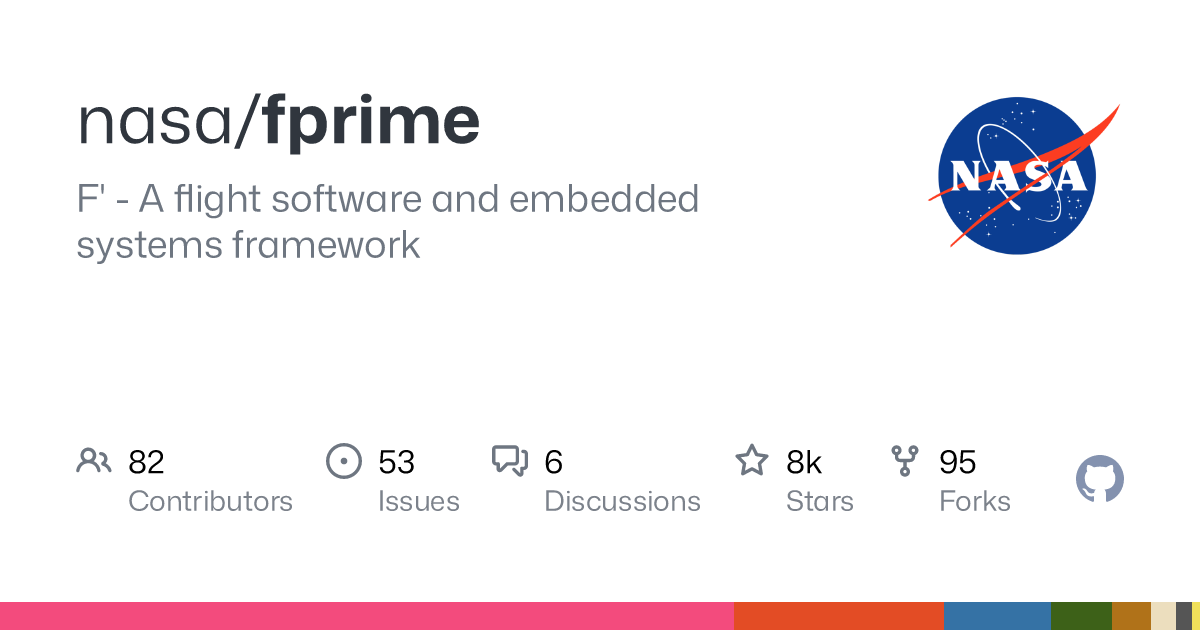
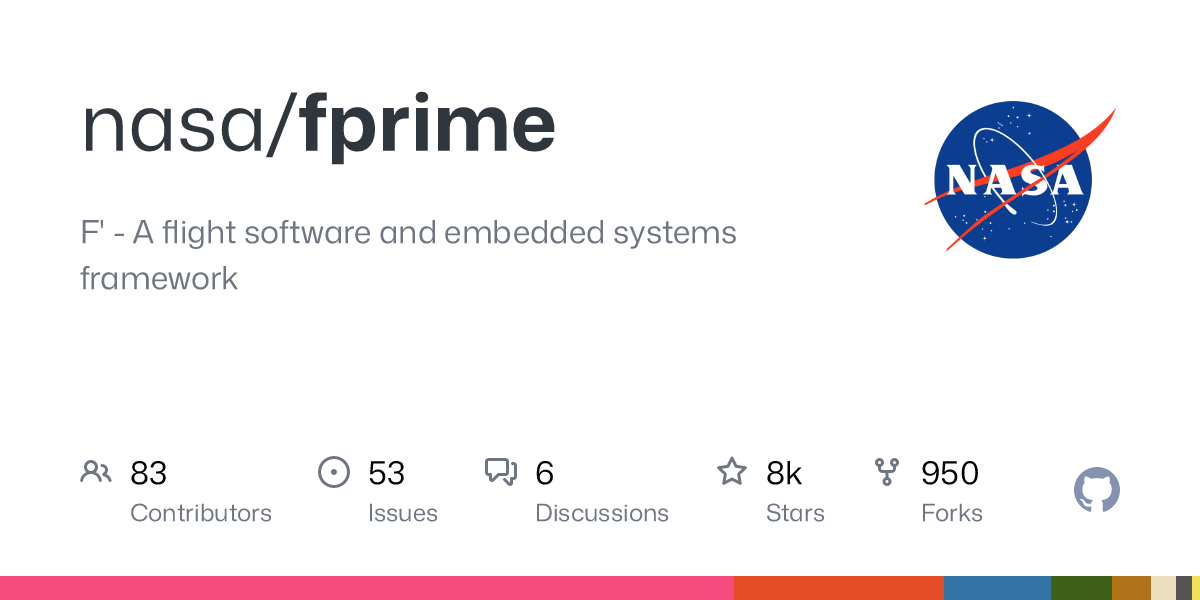
update test card

diff --git a/decal-core/src/main.rs b/decal-core/src/main.rs
@@ -10,8 +10,8 @@ fn heading(owner: &str, repo: &str) -> Decal {
                 (repo, { weight: FontWeight::Bold })
              })
         }
-            .font_size(68)
-            .line_height(82)
+            .font_size(80)
+            .line_height(80)
     }
 }
 
@@ -19,26 +19,26 @@ fn stat(value: &str, label: &str, icon: &str) -> Decal {
     fragment! {
         Column {
             Row {
-                Image(ImageSource::svg(format!(r##"<svg width="36" height="36" viewBox="0 0 16 16" fill="#6e7681">{icon}</svg>"##)), 36.0, 36.0)
+                Image(ImageSource::svg(format!(r##"<svg width="32" height="32" viewBox="0 0 16 16" fill="#6e7681">{icon}</svg>"##)), 32.0, 32.0)
                 Text(value).color(rgb(0x0))
             }
                 .font_size(32)
-                .line_height(38)
-                .align_items(AlignItems::Center)
-                .gap(px(16))
-            Text(label)
-                .color(rgb(0x7c828b))
-                .font_size(28)
                 .line_height(32)
-                .margin_left(px(52))
+                .align_items(AlignItems::Center)
+                .gap(px(18))
+            Text(label)
+                .color(rgb(0x6e7681))
+                .font_size(24)
+                .line_height(24)
+                .margin_left(px(50))
         }
-            .gap(px(4))
+            .gap(px(12))
     }
 }
 
 fn main() {
     let mut dcl = decal! {
-            Root(1200, 630) {
+            Root(1200, 600) {
                 Column {
                     Row {
                         Column {
@@ -46,7 +46,7 @@ fn main() {
                             Text("F' - A flight software and embedded systems framework")
                                 .color(rgb(0x6e7681))
                         }
-                            .gap(px(16))
+                            .gap(px(48))
                             .width(pc(70))
                         Image("https://avatars.githubusercontent.com/u/848102?s=200", 200.0, 200.0)
                     }
@@ -54,42 +54,53 @@ fn main() {
                         .gap(px(64))
                         .flex_grow(1.0)
 
-                    // Stats
                     Row {
-                        Fragment(stat("82", "Contributors", r#"<path d="M2 5.5a3.5 3.5 0 1 1 5.898 2.549 5.508 5.508 0 0 1 3.034 4.084.75.75 0 1 1-1.482.235 4 4 0 0 0-7.9 0 .75.75 0 0 1-1.482-.236A5.507 5.507 0 0 1 3.102 8.05 3.493 3.493 0 0 1 2 5.5ZM11 4a3.001 3.001 0 0 1 2.22 5.018 5.01 5.01 0 0 1 2.56 3.012.749.749 0 0 1-.885.954.752.752 0 0 1-.549-.514 3.507 3.507 0 0 0-2.522-2.372.75.75 0 0 1-.574-.73v-.352a.75.75 0 0 1 .416-.672A1.5 1.5 0 0 0 11 5.5.75.75 0 0 1 11 4Zm-5.5-.5a2 2 0 1 0-.001 3.999A2 2 0 0 0 5.5 3.5Z"></path>"#))
+                        Fragment(stat("83", "Contributors", r#"<path d="M2 5.5a3.5 3.5 0 1 1 5.898 2.549 5.508 5.508 0 0 1 3.034 4.084.75.75 0 1 1-1.482.235 4 4 0 0 0-7.9 0 .75.75 0 0 1-1.482-.236A5.507 5.507 0 0 1 3.102 8.05 3.493 3.493 0 0 1 2 5.5ZM11 4a3.001 3.001 0 0 1 2.22 5.018 5.01 5.01 0 0 1 2.56 3.012.749.749 0 0 1-.885.954.752.752 0 0 1-.549-.514 3.507 3.507 0 0 0-2.522-2.372.75.75 0 0 1-.574-.73v-.352a.75.75 0 0 1 .416-.672A1.5 1.5 0 0 0 11 5.5.75.75 0 0 1 11 4Zm-5.5-.5a2 2 0 1 0-.001 3.999A2 2 0 0 0 5.5 3.5Z"></path>"#))
                         Fragment(stat("53", "Issues", r#"<path d="M8 9.5a1.5 1.5 0 1 0 0-3 1.5 1.5 0 0 0 0 3Z"></path><path d="M8 0a8 8 0 1 1 0 16A8 8 0 0 1 8 0ZM1.5 8a6.5 6.5 0 1 0 13 0 6.5 6.5 0 0 0-13 0Z"></path>"#))
                         Fragment(stat("6", "Discussions", r#"<path d="M1.75 1h8.5c.966 0 1.75.784 1.75 1.75v5.5A1.75 1.75 0 0 1 10.25 10H7.061l-2.574 2.573A1.458 1.458 0 0 1 2 11.543V10h-.25A1.75 1.75 0 0 1 0 8.25v-5.5C0 1.784.784 1 1.75 1ZM1.5 2.75v5.5c0 .138.112.25.25.25h1a.75.75 0 0 1 .75.75v2.19l2.72-2.72a.749.749 0 0 1 .53-.22h3.5a.25.25 0 0 0 .25-.25v-5.5a.25.25 0 0 0-.25-.25h-8.5a.25.25 0 0 0-.25.25Zm13 2a.25.25 0 0 0-.25-.25h-.5a.75.75 0 0 1 0-1.5h.5c.966 0 1.75.784 1.75 1.75v5.5A1.75 1.75 0 0 1 14.25 12H14v1.543a1.458 1.458 0 0 1-2.487 1.03L9.22 12.28a.749.749 0 0 1 .326-1.275.749.749 0 0 1 .734.215l2.22 2.22v-2.19a.75.75 0 0 1 .75-.75h1a.25.25 0 0 0 .25-.25Z"></path>"#))
                         Fragment(stat("8k", "Stars", r#"<path d="M8 .25a.75.75 0 0 1 .673.418l1.882 3.815 4.21.612a.75.75 0 0 1 .416 1.279l-3.046 2.97.719 4.192a.751.751 0 0 1-1.088.791L8 12.347l-3.766 1.98a.75.75 0 0 1-1.088-.79l.72-4.194L.818 6.374a.75.75 0 0 1 .416-1.28l4.21-.611L7.327.668A.75.75 0 0 1 8 .25Zm0 2.445L6.615 5.5a.75.75 0 0 1-.564.41l-3.097.45 2.24 2.184a.75.75 0 0 1 .216.664l-.528 3.084 2.769-1.456a.75.75 0 0 1 .698 0l2.77 1.456-.53-3.084a.75.75 0 0 1 .216-.664l2.24-2.183-3.096-.45a.75.75 0 0 1-.564-.41L8 2.694Z"></path>"#))
-                        Fragment(stat("95", "Forks", r#"<path d="M5 5.372v.878c0 .414.336.75.75.75h4.5a.75.75 0 0 0 .75-.75v-.878a2.25 2.25 0 1 1 1.5 0v.878a2.25 2.25 0 0 1-2.25 2.25h-1.5v2.128a2.251 2.251 0 1 1-1.5 0V8.5h-1.5A2.25 2.25 0 0 1 3.5 6.25v-.878a2.25 2.25 0 1 1 1.5 0ZM5 3.25a.75.75 0 1 0-1.5 0 .75.75 0 0 0 1.5 0Zm6.75.75a.75.75 0 1 0 0-1.5.75.75 0 0 0 0 1.5Zm-3 8.75a.75.75 0 1 0-1.5 0 .75.75 0 0 0 1.5 0Z"></path>"#))
-                        Image(ImageSource::svg(r##"<svg viewBox="0 0 16 16" width="48" height="48" fill="#8492af"><path d="M8 0c4.42 0 8 3.58 8 8a8.013 8.013 0 0 1-5.45 7.59c-.4.08-.55-.17-.55-.38 0-.27.01-1.13.01-2.2 0-.75-.25-1.23-.54-1.48 1.78-.2 3.65-.88 3.65-3.95 0-.88-.31-1.59-.82-2.15.08-.2.36-1.02-.08-2.12 0 0-.67-.22-2.2.82-.64-.18-1.32-.27-2-.27-.68 0-1.36.09-2 .27-1.53-1.03-2.2-.82-2.2-.82-.44 1.1-.16 1.92-.08 2.12-.51.56-.82 1.28-.82 2.15 0 3.06 1.86 3.75 3.64 3.95-.23.2-.44.55-.51 1.07-.46.21-1.61.55-2.33-.66-.15-.24-.6-.83-1.23-.82-.67.01-.27.38.01.53.34.19.73.9.82 1.13.16.45.68 1.31 2.69.94 0 .67.01 1.3.01 1.49 0 .21-.15.45-.55.38A7.995 7.995 0 0 1 0 8c0-4.42 3.58-8 8-8Z"></path></svg>"##), 48.0, 48.0)
-                            .margin_left(px(32))
-                }
+                        Fragment(stat("950", "Forks", r#"<path d="M5 5.372v.878c0 .414.336.75.75.75h4.5a.75.75 0 0 0 .75-.75v-.878a2.25 2.25 0 1 1 1.5 0v.878a2.25 2.25 0 0 1-2.25 2.25h-1.5v2.128a2.251 2.251 0 1 1-1.5 0V8.5h-1.5A2.25 2.25 0 0 1 3.5 6.25v-.878a2.25 2.25 0 1 1 1.5 0ZM5 3.25a.75.75 0 1 0-1.5 0 .75.75 0 0 0 1.5 0Zm6.75.75a.75.75 0 1 0 0-1.5.75.75 0 0 0 0 1.5Zm-3 8.75a.75.75 0 1 0-1.5 0 .75.75 0 0 0 1.5 0Z"></path>"#))
+
+                        Row {
+                            Image(
+                                ImageSource::svg(
+                                    r##"<svg viewBox="0 0 16 16" width="46" height="46" fill="#8492af"><path d="M8 0c4.42 0 8 3.58 8 8a8.013 8.013 0 0 1-5.45 7.59c-.4.08-.55-.17-.55-.38 0-.27.01-1.13.01-2.2 0-.75-.25-1.23-.54-1.48 1.78-.2 3.65-.88 3.65-3.95 0-.88-.31-1.59-.82-2.15.08-.2.36-1.02-.08-2.12 0 0-.67-.22-2.2.82-.64-.18-1.32-.27-2-.27-.68 0-1.36.09-2 .27-1.53-1.03-2.2-.82-2.2-.82-.44 1.1-.16 1.92-.08 2.12-.51.56-.82 1.28-.82 2.15 0 3.06 1.86 3.75 3.64 3.95-.23.2-.44.55-.51 1.07-.46.21-1.61.55-2.33-.66-.15-.24-.6-.83-1.23-.82-.67.01-.27.38.01.53.34.19.73.9.82 1.13.16.45.68 1.31 2.69.94 0 .67.01 1.3.01 1.49 0 .21-.15.45-.55.38A7.995 7.995 0 0 1 0 8c0-4.42 3.58-8 8-8Z"></path></svg>"##
+                                ),
+                                46.0,
+                                46.0
+                            )
+                        }
+                            .justify_content(JustifyContent::End)
+                            .flex_grow(1.0)
+
+                    }
+                        .gap(px(46))
                         .align_items(AlignItems::Center)
                         .justify_content(JustifyContent::SpaceBetween)
 
                     Row {
-                        Block {}.background([243, 75, 125]).width(pc(61.2))
-                        Block {}.background([227, 76, 37]).width(pc(17.5))
-                        Block {}.background([53, 114, 165]).width(pc(8.9))
-                        Block {}.background([61, 97, 24]).width(pc(5.1))
-                        Block {}.background([176, 114, 25]).width(pc(3.2))
-                        Block {}.background([236, 222, 190]).width(pc(2.1))
-                        Block {}.background([85, 85, 85]).width(pc(1.3))
-                        Block {}.background([240, 224, 90]).width(pc(0.7))
+                        Block {}.background(rgb(0xf34b7d)).width(pc(61.2))
+                        Block {}.background(rgb(0xe34c25)).width(pc(17.5))
+                        Block {}.background(rgb(0x3572a5)).width(pc(8.9))
+                        Block {}.background(rgb(0x3d6118)).width(pc(5.1))
+                        Block {}.background(rgb(0xb07219)).width(pc(3.2))
+                        Block {}.background(rgb(0xecdebe)).width(pc(2.1))
+                        Block {}.background(rgb(0x555555)).width(pc(1.3))
+                        Block {}.background(rgb(0xf0e05a)).width(pc(0.7))
                     }
-                        .height(px(28))
-                        .margin_x(px(-76))
-                        .margin_bottom(px(-76))
+                        .height(px(24))
+                        .margin_x(px(-80))
+                        .margin_bottom(px(-80))
                 }
-                    .padding(px(76))
+                    .padding(px(80))
                     .align_items(AlignItems::Stretch)
-                    .gap(px(86))
-                    .background([255, 255, 255])
+                    .gap(px(52))
+                    .background(rgb(0xffffff))
                     .size(pc(100))
             }
-                .font_size(38)
+                .font_size(32)
                 .line_height(46)
-                .color([48, 54, 62])
+                .color(rgb(0x2f363d))
                 .font_family("Mona Sans")
                 .text_wrap(TextWrap::Word)
     };
